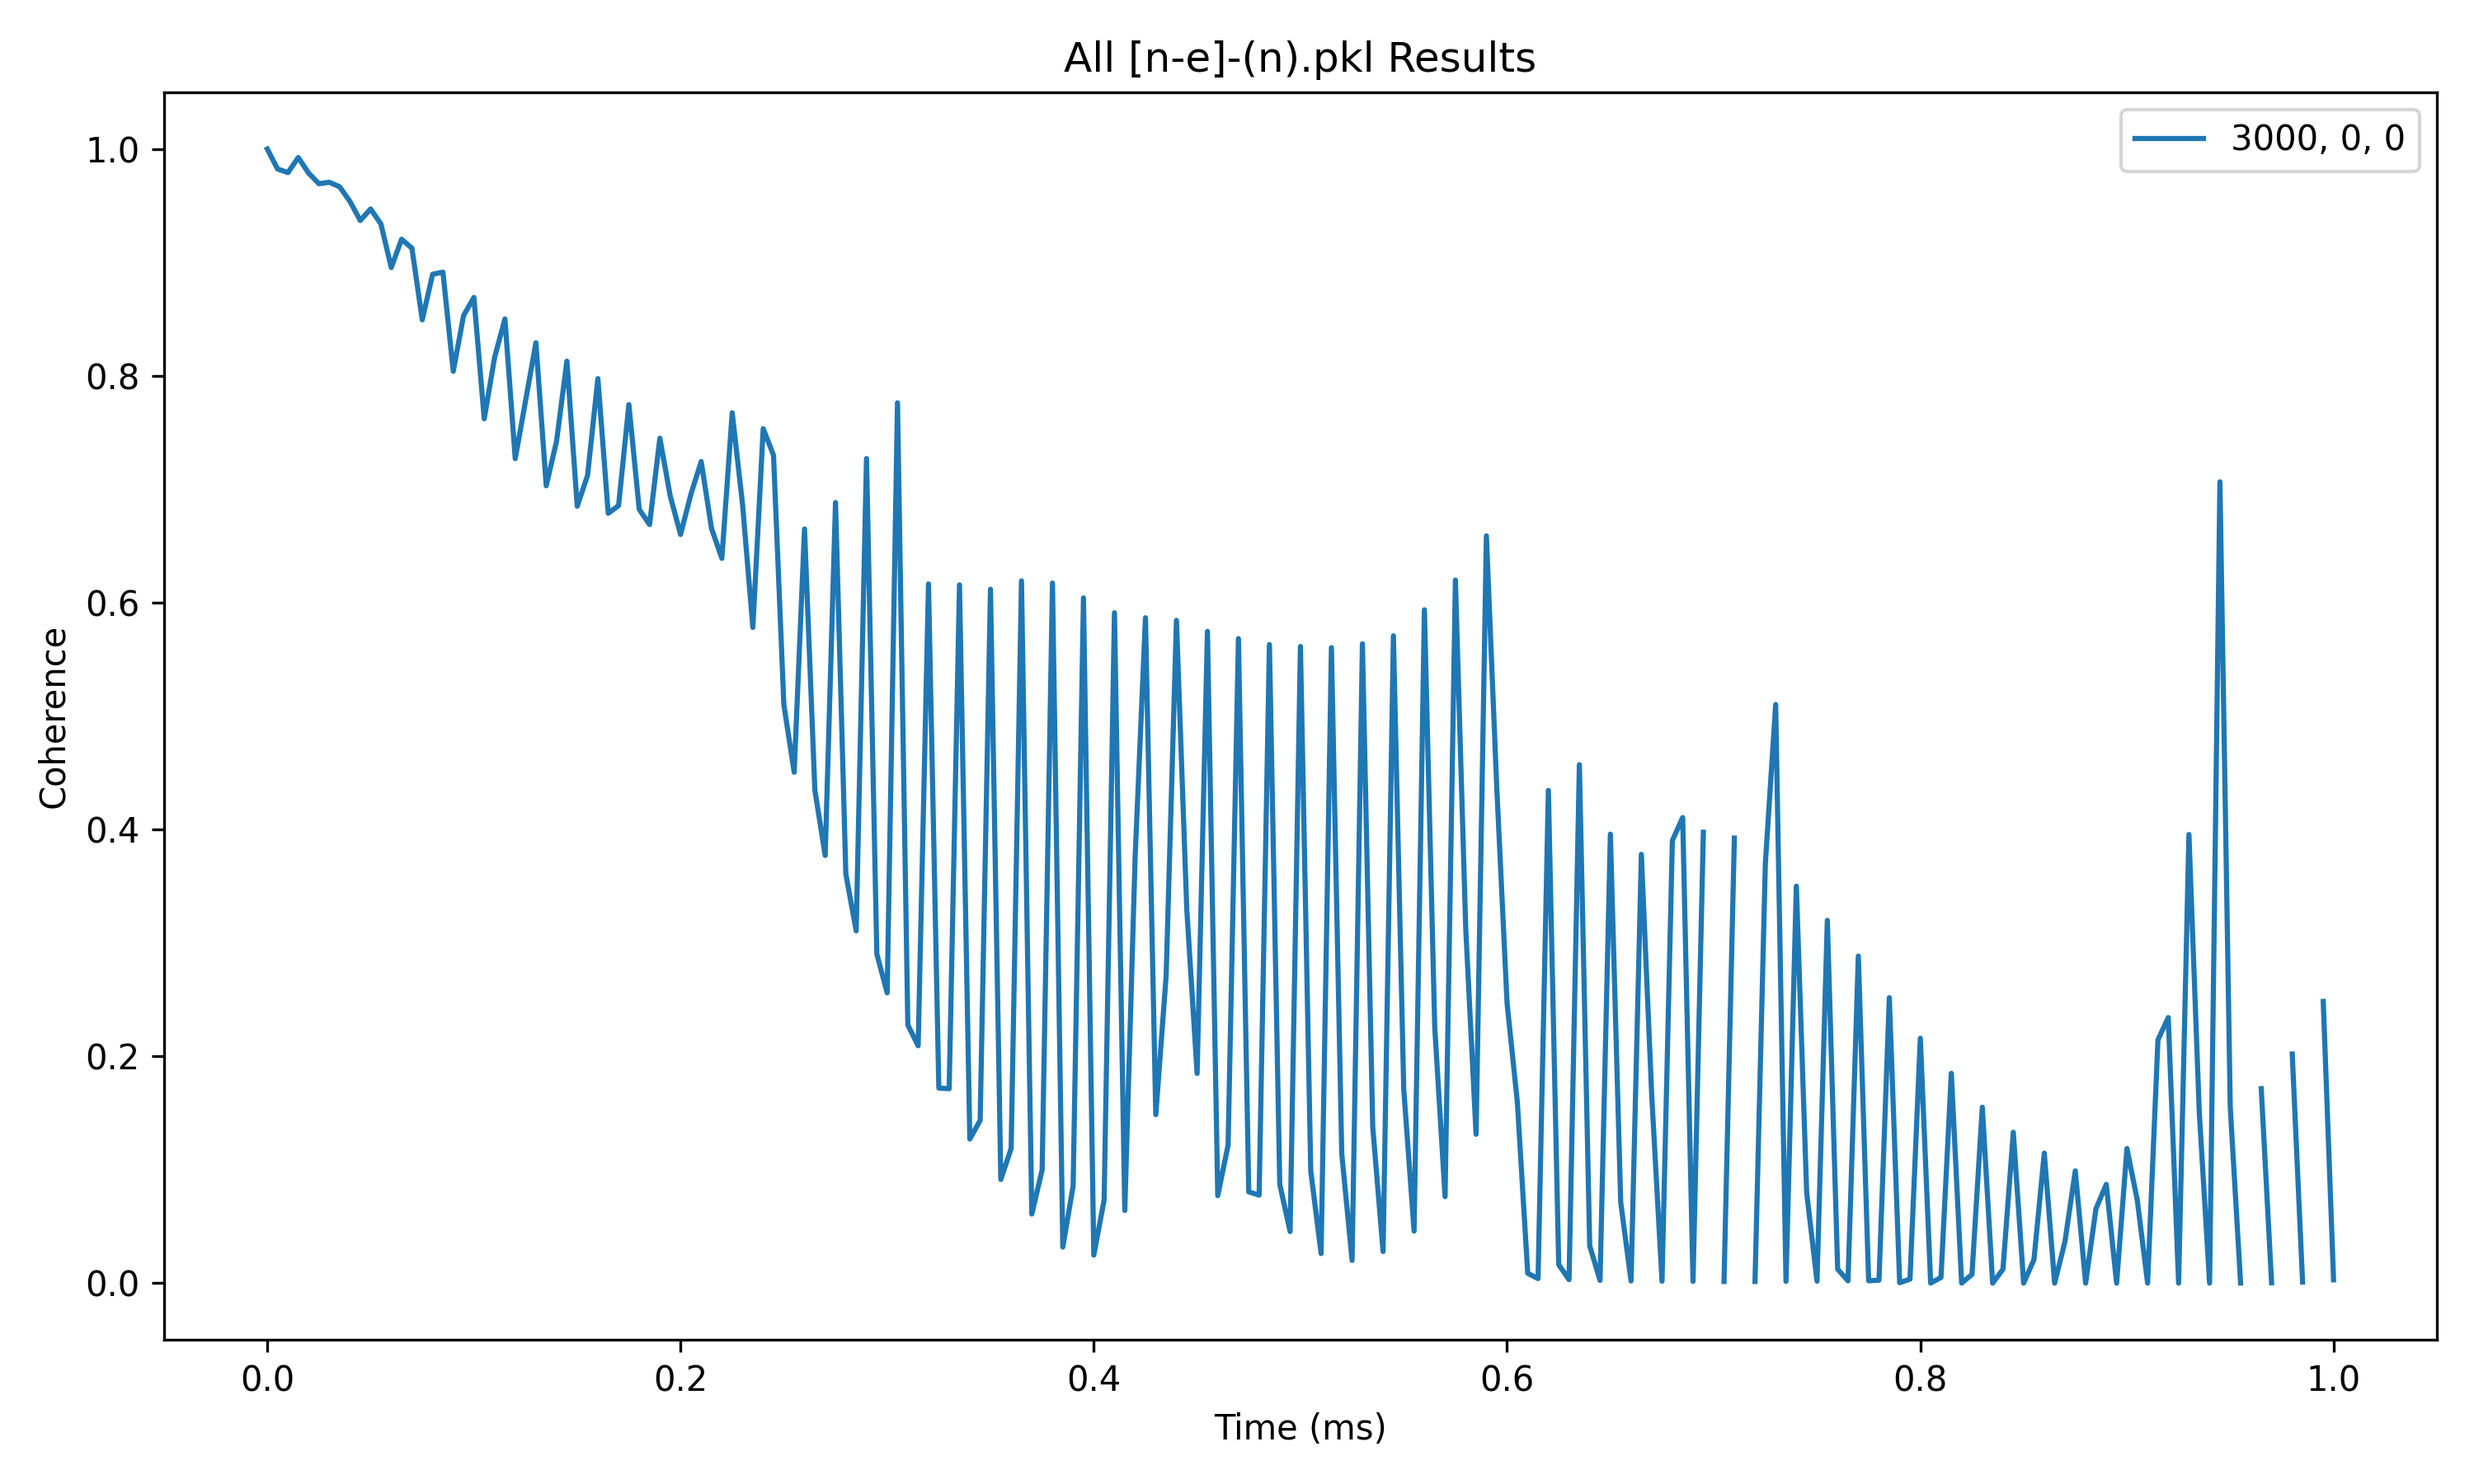
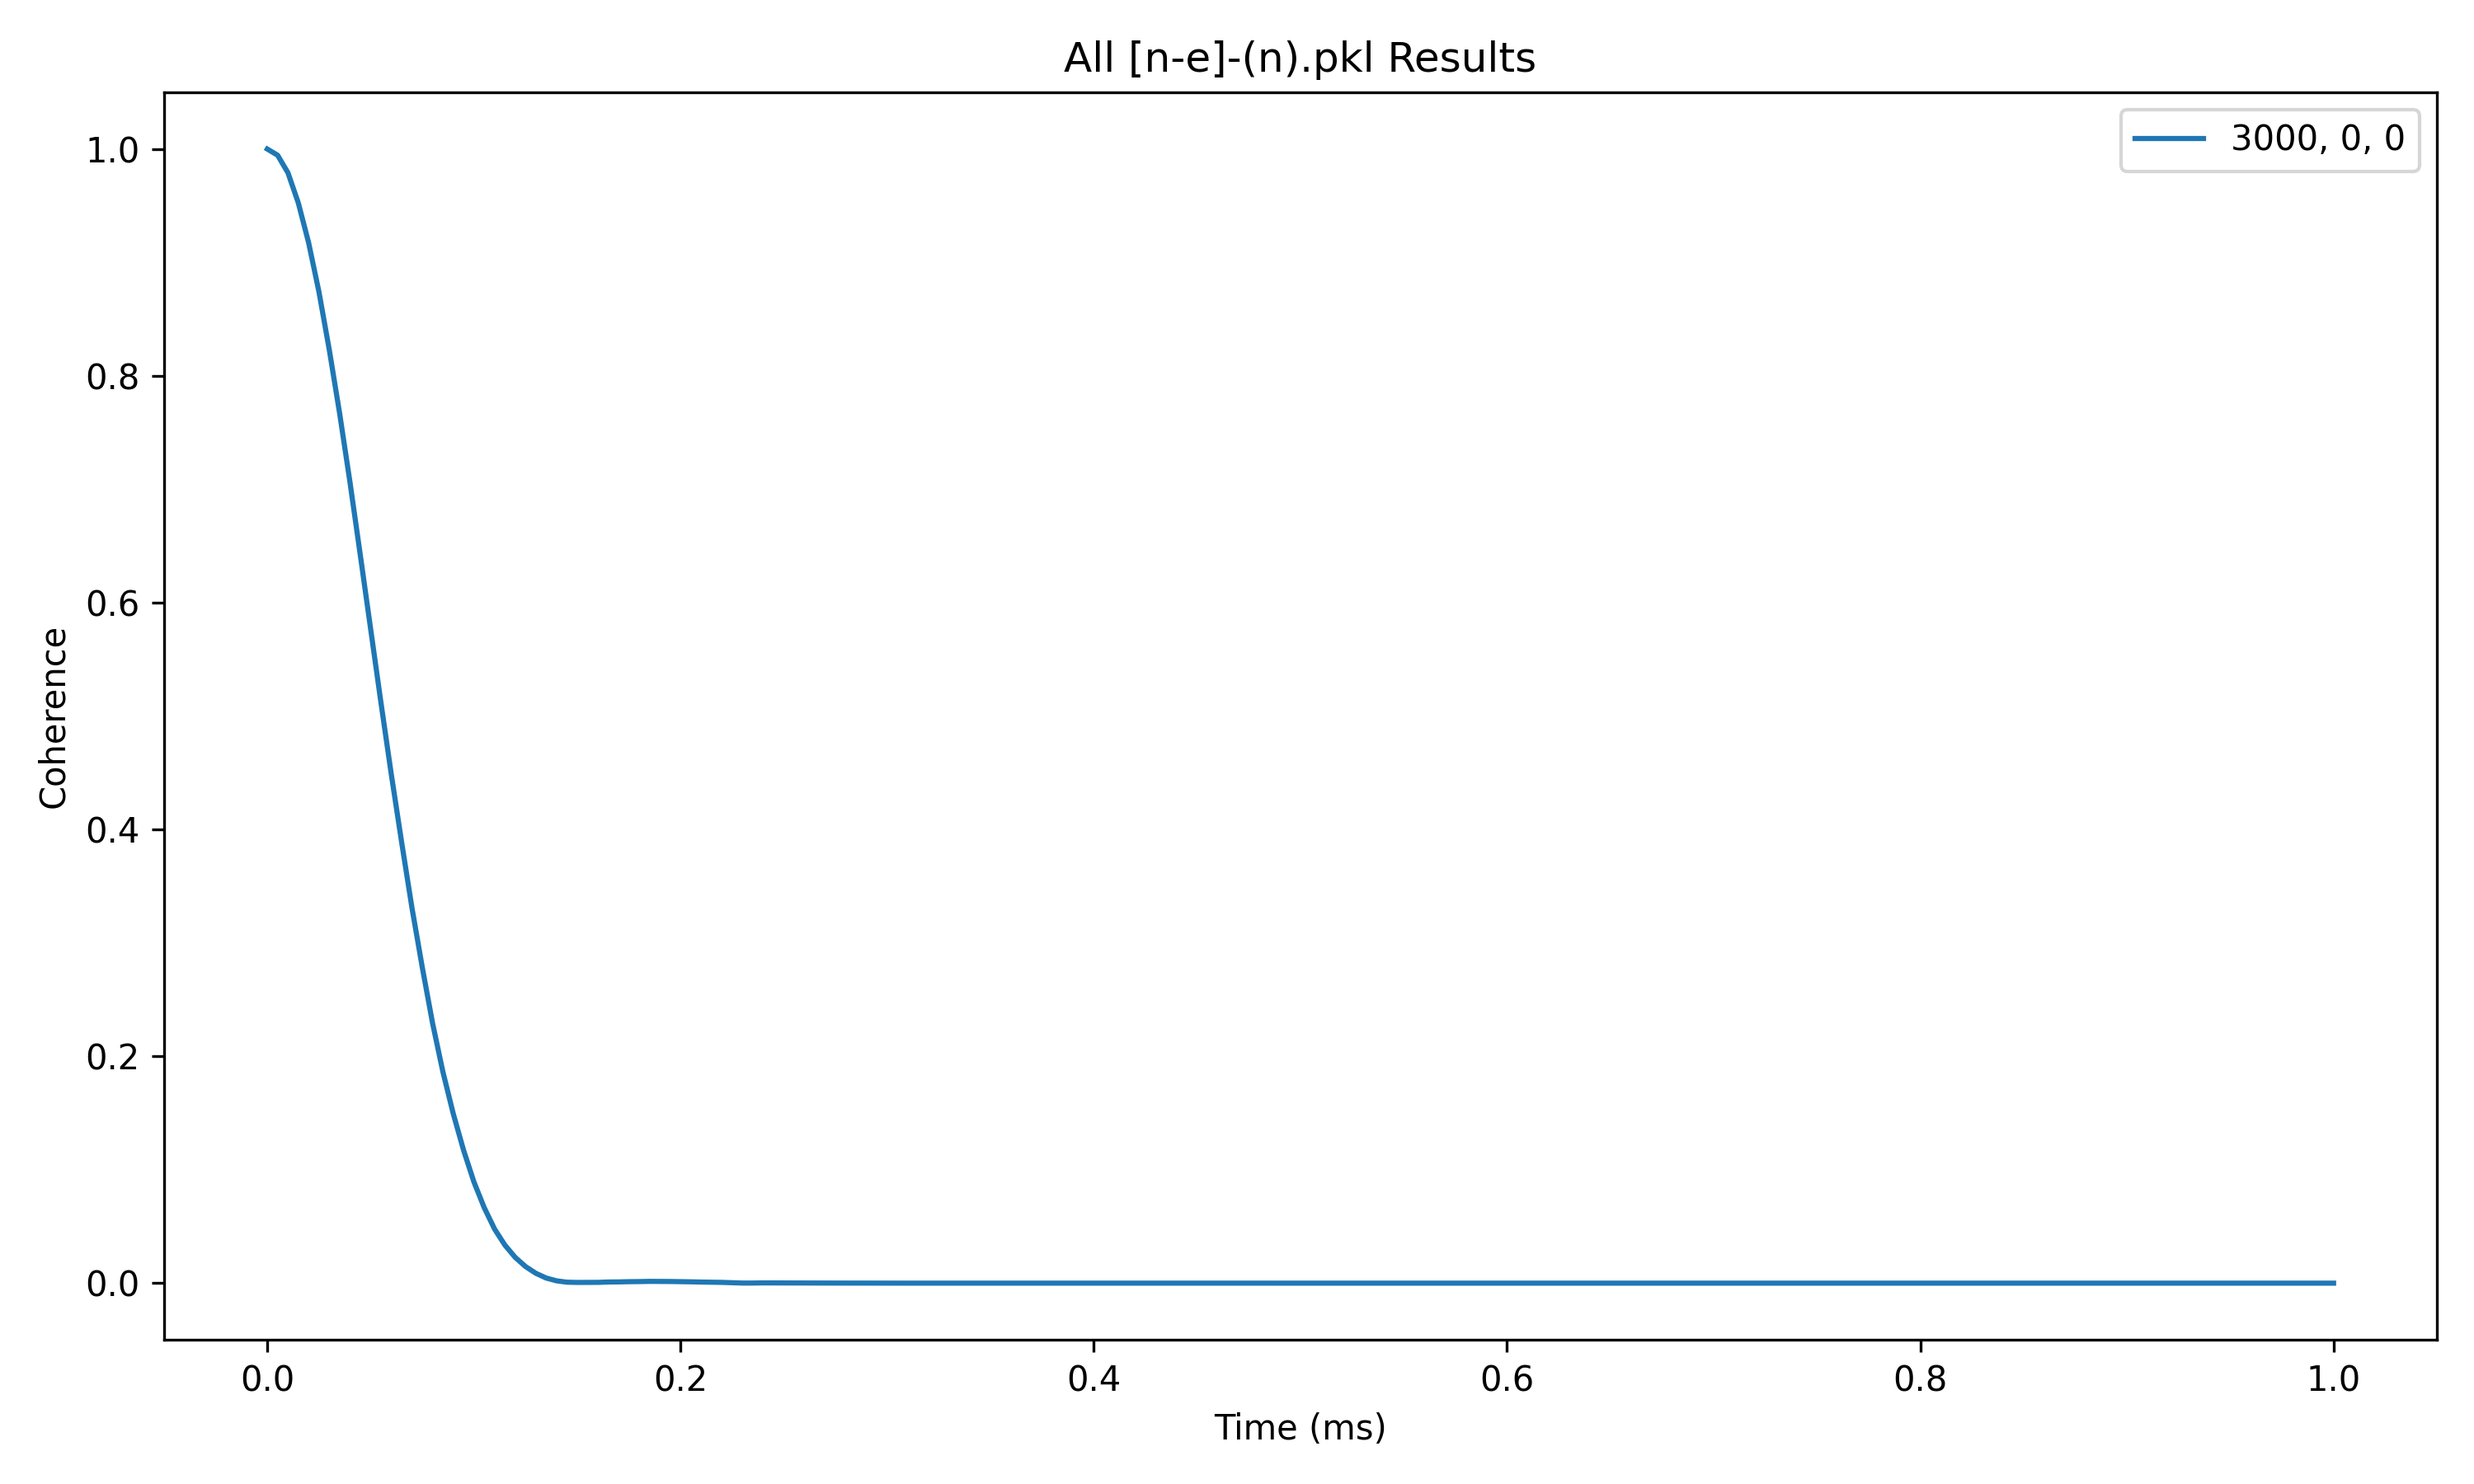
AB1: Very strange results! [n-e]-n seems to show that H determines T2=61us. More investigation needed!

diff --git a/VOTPP folder/VOTPP_[n-e]-(n).py b/VOTPP folder/VOTPP_[n-e]-(n).py
@@ -1,4 +1,4 @@
-from VOTPP_class_copy_2 import VOTPP_class
+from VOTPP_class import VOTPP_class
 from mpi4py import MPI
 import numpy as np
 import pandas as pd
@@ -57,6 +57,9 @@ def setup_simulator(concentration_value, bath_parameters, simulator_parameters, 
     bath_parameters['concentration'] = concentration_value
     simulator = VOTPP_class(num_spins=num_spins, spin_type=spin_type, alpha=alpha, beta=beta, **bath_parameters)
     sim_original = simulator.setup_simulator(**simulator_parameters)
+    if rank == 0:
+        print(sim_original)
+        call = simulator.visualize_cluster(sim_original)
     return simulator, sim_original
 
 
@@ -138,12 +141,21 @@ nbstates_list = [128,]
 
 timespace_absolute = np.linspace(0, 1, 201)
 
+pulse_bath = pc.Pulse(axis='z', angle='2*pi/3', delay=None, 
+                      bath_names='51V') # 120° pulse around x-axis applied to bath spins
+
+# Define the sequence
+hahn_echo_sequence = pc.Sequence([
+                                pulse_bath,
+                                ])
+
 default_calc_parameters = {
     'timespace': timespace_absolute, # 7e-2
     'method': 'gcce',
-    'pulses': [('x', ((2*np.pi)/3), timespace_absolute / 2), ('x', ((2*np.pi)/3), timespace_absolute / 2)], # Paper defines a Hahn-echo pulse sequence with 2pi/3 pulses?
+    # 'pulses': [('x', ((2*np.pi)/3), timespace_absolute / 2), ('x', ((2*np.pi)/3), timespace_absolute / 2)], # Paper defines a Hahn-echo pulse sequence with 2pi/3 pulses?
     # 'pulses': [('x', np.pi, timespace_absolute / 2), ('x', np.pi, timespace_absolute / 2)], # Paper defines a Hahn-echo pulse sequence with 2pi/3 pulses?
-    'nbstates': 30, #!
+    'pulses': hahn_echo_sequence,
+    'nbstates': 10, #!
     'quantity': 'coherence',
     'parallel': True,
     'parallel_states': True,
@@ -157,11 +169,12 @@ default_bath_parameters = {
 
 default_simulator_parameters = { ########## These should be greater when simulating with HPC
     'order': 2, #!
-    'r_bath': 10, #16,
-    'r_dipole': 5, #6,
-    'magnetic_field': [1500, 0, 0], # Magnetic field in Gauss
+    'r_bath': 12, #16,
+    'r_dipole': 6, #6,
+    'magnetic_field': [3000, 0, 0], # Magnetic field in Gauss
 }
 
+magnetic_field_list = [[3000,0,0]]
 
 #####################################################################
 # Set up runner and run the simulation
@@ -172,7 +185,6 @@ default_simulator_parameters = { ########## These should be greater when simulat
 # timespace_list = [np.linspace(0, 5e-2, 201), np.linspace(0, 5e-2, 201), np.linspace(0, 5e-2, 201), np.linspace(0, 1e-1, 201), np.linspace(0, 1e-1, 201), np.linspace(0, 1e-1, 201), ]
 # timespace_list = [np.linspace(0, 5e-2, 201), np.linspace(0, 5e-2, 201), np.linspace(0, 5e-2, 201), np.linspace(0, 7e-2, 201), np.linspace(0, 7e-2, 201), np.linspace(0, 7e-2, 201), ]
 
-magnetic_field_list = [[3000,0,0],]
 
 # alphabeta_results = {}
 # for idx, alphabetas in enumerate(alpha_and_beta):
@@ -219,8 +231,8 @@ for idx, seed in enumerate(seed_list):
                         concentration_value=default_bath_parameters['concentration'],
                         changing_variable='magnetic_field', variable_values=magnetic_field_list,
                         num_spins=2,# spin_type='electronic',
-                        alpha = 4,
-                        beta = 5,
+                        alpha = 2,
+                        beta = 3,
                         bath_parameters=default_bath_parameters, simulator_parameters=default_simulator_parameters, calc_parameters=default_calc_parameters,
                         # changing_variable2='timespace', variable_values2=timespace_list,
                         )
